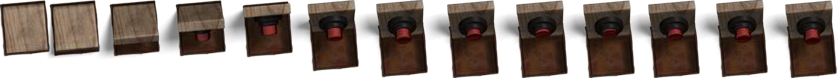
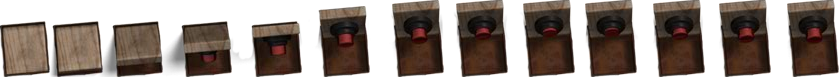
Button and pink weel animation implemented
Contains new button sprite

diff --git a/Pinball/ModuleSceneIntro.cpp b/Pinball/ModuleSceneIntro.cpp
@@ -23,6 +23,8 @@ bool ModuleSceneIntro::Start()
 	LOG("Loading Intro assets");
 	bool ret = true;
 
+	Animations();
+
 	score = 0;
 	record_score = 0;
 
@@ -34,6 +36,11 @@ bool ModuleSceneIntro::Start()
 	background = App->textures->Load("pinball/background.png");
 	bonus_fx = App->audio->LoadFx("pinball/bonus.wav");
 	elements = App->textures->Load("pinball/pinball_elements.png");
+	buttons_texture = App->textures->Load("pinball/button.png");
+	shiny_points = App->textures->Load("pinball/shiny_points.png");
+	shiny_twister_point = App->textures->Load("pinball/shiny_twister_point.png");
+	shiny_weels = App->textures->Load("pinball/shiny_weels.png");
+
 
 	return ret;
 }
@@ -42,14 +49,12 @@ bool ModuleSceneIntro::Start()
 bool ModuleSceneIntro::CleanUp()
 {
 	LOG("Unloading Intro scene");
-
 	return true;
 }
 
 // Update: draw background
 update_status ModuleSceneIntro::Update()
 {
-	Animations();
 	if (App->input->GetKey(SDL_SCANCODE_LEFT) == KEY_REPEAT)
 	{
 		App->physics->force_makers.getFirst()->data->body->ApplyForceToCenter(b2Vec2(0, -100), true);
@@ -271,6 +276,8 @@ update_status ModuleSceneIntro::Update()
 		c = c->next;
 	}
 
+	App->renderer->Blit(buttons_texture, 235, 126, &(button.GetCurrentFrame()));
+	
 	return UPDATE_CONTINUE;
 }
 
@@ -288,5 +295,29 @@ void ModuleSceneIntro::OnCollision(PhysBody* bodyA, PhysBody* bodyB)
 
 void ModuleSceneIntro::Animations()
 {
+	
+	button.PushBack({ 51, 0, 51, 77 });
+	button.PushBack({ 111, 0, 51, 77 });
+	button.PushBack({ 180, 0, 51, 77 });
+	button.PushBack({ 251, 0, 51, 77 });
+	button.PushBack({ 319, 0, 51, 77 });
+	button.PushBack({ 393, 0, 51, 77 });
+	button.PushBack({ 457, 0, 51, 77 });
+	button.PushBack({ 524, 0, 51, 77 });
+	button.PushBack({ 586, 0, 51, 77 });
+	button.PushBack({ 654, 0, 51, 77 });
+	button.PushBack({ 720, 0, 51, 77 });
+	button.PushBack({ 788, 0, 51, 77 });
+	button.loop = false;
+	button.speed = 0.1f;
 
+	shiny_weels_animation.PushBack({ 22, 0, 23, 24 });
+	shiny_weels_animation.PushBack({ 46, 0, 23, 24 });
+	shiny_weels_animation.PushBack({ 71, 0, 23, 24 });
+	shiny_weels_animation.PushBack({ 95, 0, 23, 24 });
+	//shiny_weels_animation.PushBack({ 120, 0, 23, 24 });
+	shiny_weels_animation.loop = true;
+	shiny_weels_animation.speed = 0.5f;
+	//button_animation = &button;
+	//App->renderer->Blit(buttons_texture, 0 , 0 , &(current_animation->GetCurrentFrame()));
 }

diff --git a/Pinball/ModuleSceneIntro.h b/Pinball/ModuleSceneIntro.h
@@ -35,8 +35,17 @@ public:
 	SDL_Texture* rick;
 	SDL_Texture* background;
 	SDL_Texture* elements;
+	SDL_Texture* buttons_texture;
+	SDL_Texture* shiny_points;
+	SDL_Texture* shiny_twister_point;
+	SDL_Texture* shiny_weels;
 
 	uint bonus_fx;
 	p2Point<int> ray;
 	bool ray_on;
+
+	//Animations
+	//Animation* button_animation = nullptr;
+	Animation button;
+	Animation shiny_weels_animation;
 };

diff --git a/Pinball/ModulePhysics.cpp b/Pinball/ModulePhysics.cpp
@@ -1516,6 +1516,7 @@ void ModulePhysics::OnCollision(PhysBody * bodyA, PhysBody * bodyB)
 			if (i == 0 || i == 1)
 			{
 				//pink
+				App->renderer->Blit(App->scene_intro->shiny_weels, 297, 148, &(App->scene_intro->shiny_weels_animation.GetCurrentFrame()));
 
 			}
 			else if (i == 2 || i == 3)
